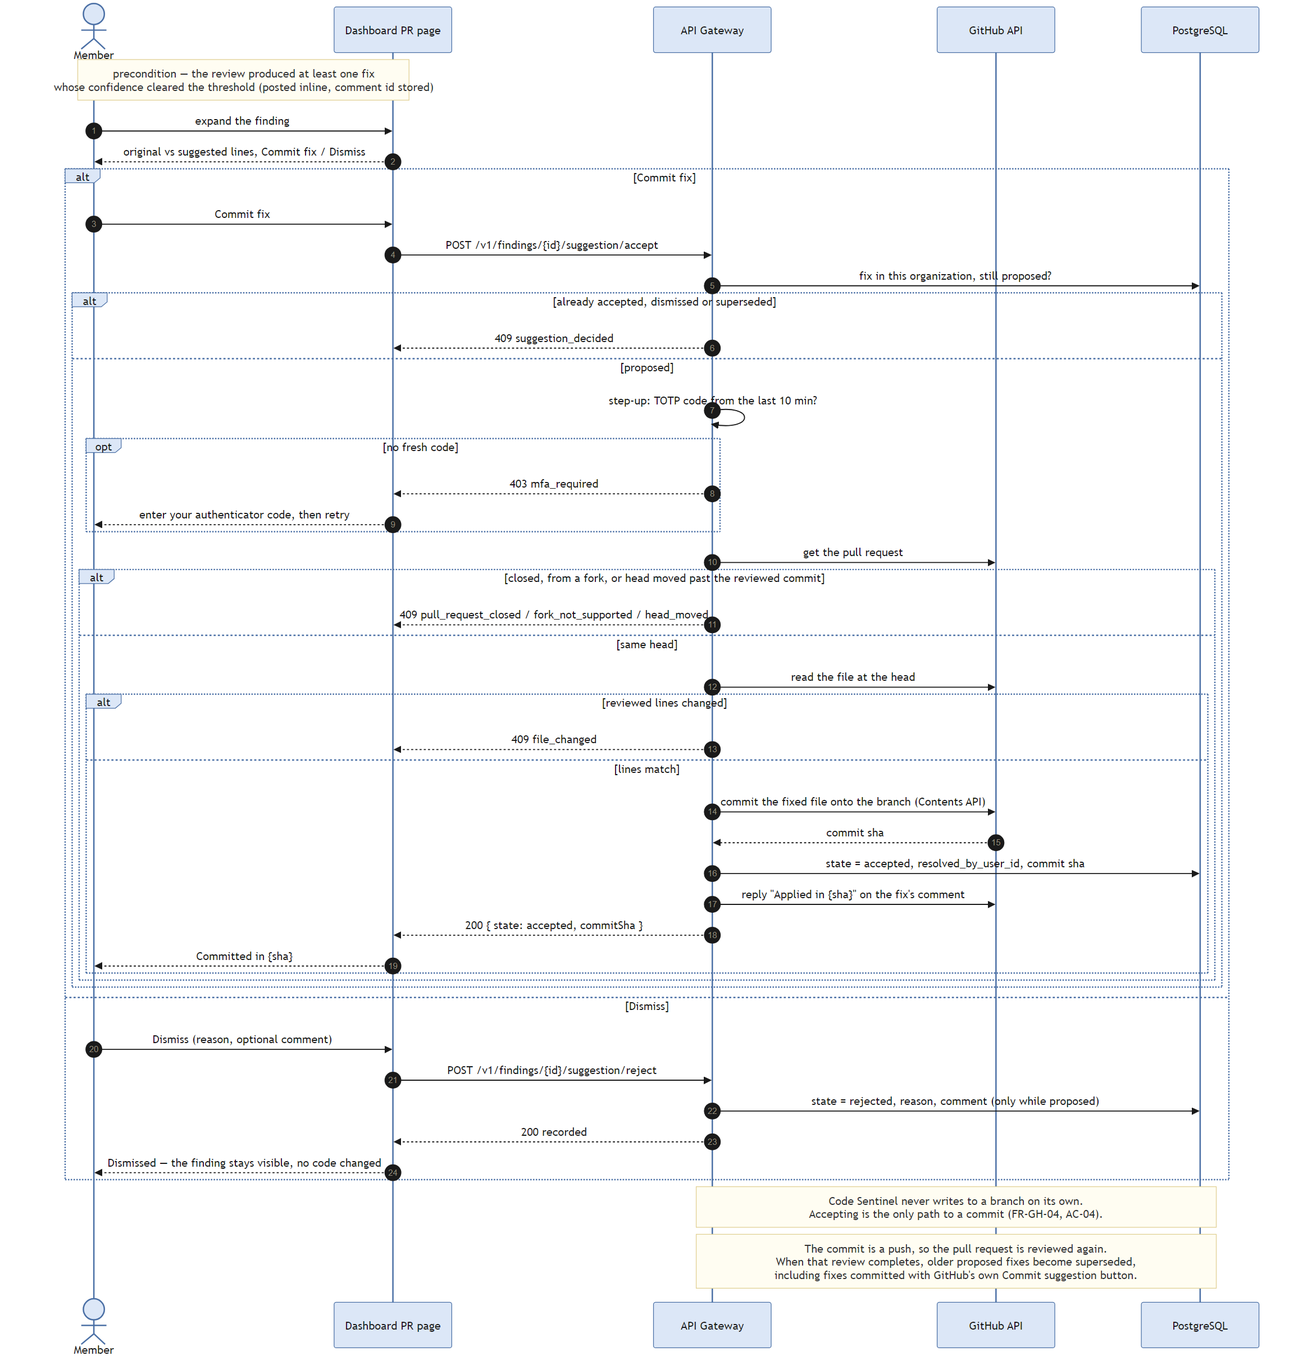
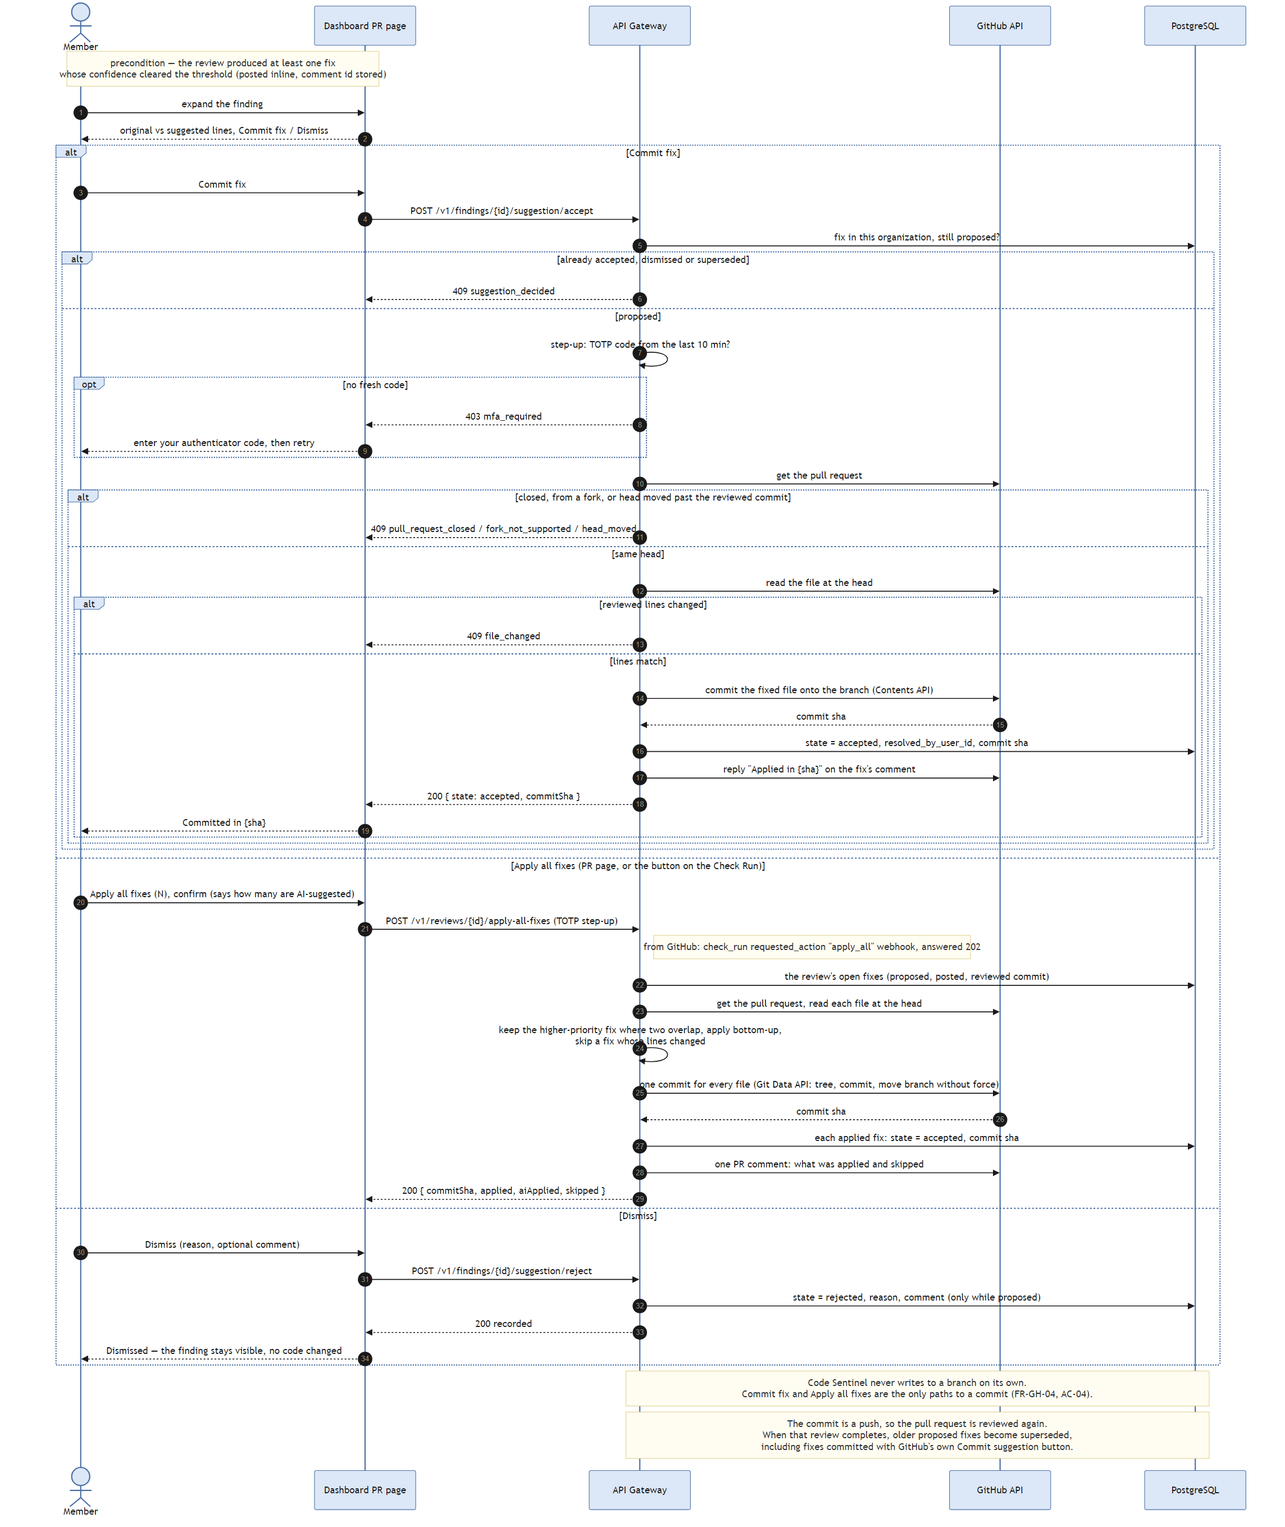
Apply all fixes from dashboard

diff --git a/services/gateway/src/routes/findings.ts b/services/gateway/src/routes/findings.ts
@@ -1,29 +1,32 @@
-import { RejectSuggestionRequestSchema, type SuggestionDecision } from "@code-sentinel/contracts";
+import { RejectSuggestionRequestSchema, type ApplyAllFixesResult, type SuggestionDecision } from "@code-sentinel/contracts";
 import { badGateway, badRequest, HttpError, notFound, type Logger } from "@code-sentinel/service-kit";
 import { Router, type Request } from "express";
 import { z } from "zod";
 
 import { assertStepUp, requireOrganization, type StepUpPolicy } from "../auth/guards.js";
 import type { GatewayResponse } from "../auth/principal.js";
+import { applyAllFixes } from "../github/apply-all-fixes.js";
 import { commitSuggestion } from "../github/apply-suggestion.js";
 import type { GitHubClient, PullRequestInfo } from "../github/github-client.js";
 import type { Stores, SuggestionRecord } from "../persistence/stores.js";
 
 export interface FindingsRouterDeps {
-  stores: Pick<Stores, "suggestions" | "repositories">;
-  github: Pick<GitHubClient, "getPullRequest" | "getFileContent" | "updateFile" | "replyToReviewComment">;
+  stores: Pick<Stores, "suggestions" | "repositories" | "reviews">;
+  github: Pick<GitHubClient, "getPullRequest" | "getFileContent" | "updateFile" | "replyToReviewComment" | "commitFiles" | "commentOnPullRequest">;
   logger: Logger;
   stepUp: StepUpPolicy;
 }
 
 const FindingIdSchema = z.string().uuid();
+const ReviewIdSchema = z.string().uuid();
 const conflict = (code: string, message: string) => new HttpError(409, code, message);
 const decided = () => conflict("suggestion_decided", "This fix was already accepted, dismissed, or replaced by a newer review");
 const githubUnavailable = () => badGateway("github_unavailable", "GitHub did not answer; try again in a moment");
 
 /**
- * UC-3: accept a suggested fix (commit it onto the pull request branch) or reject it. Any member of
- * the finding's organization may decide; accepting writes code, so it also needs a TOTP step-up.
+ * UC-3: accept a suggested fix (commit it onto the pull request branch), reject it, or apply every
+ * open fix of a review in one commit. Any member of the organization may decide; committing writes
+ * code, so it also needs a TOTP step-up.
  */
 export function createFindingsRouter({ stores, github, logger, stepUp }: FindingsRouterDeps): Router {
   const router = Router();
@@ -88,6 +91,37 @@ export function createFindingsRouter({ stores, github, logger, stepUp }: Finding
       res.json(body);
     },
   );
+
+  // Every open fix of a review in one commit, Style and AI alike; writes code, so it needs the step-up too.
+  router.post("/reviews/:reviewId/apply-all-fixes", requireOrganization, async (req: Request<{ reviewId: string }>, res: GatewayResponse) => {
+    const principal = res.locals.principal!;
+    const id = ReviewIdSchema.safeParse(req.params.reviewId);
+    const review = id.success ? await stores.reviews.get(principal.organizationId!, id.data) : undefined;
+    if (!review) throw notFound("review_not_found", "No such review in this organization");
+    assertStepUp(principal, stepUp);
+
+    const repository = await stores.repositories.findForOrganization(principal.organizationId!, review.repositoryId);
+    if (!repository) throw conflict("pull_request_closed", "This review's repository is no longer connected");
+    let outcome;
+    try {
+      outcome = await applyAllFixes(
+        { suggestions: stores.suggestions, github, now: () => new Date(stepUp.now()) },
+        { review, repository, userId: principal.userId, requestedBy: "a member on the Code Sentinel dashboard" },
+      );
+    } catch (error) {
+      logger.warn("applying all fixes failed", { requestId: res.locals.requestId, reviewId: review.reviewId, error });
+      throw githubUnavailable();
+    }
+    if (!outcome.ok) throw conflict(outcome.code, outcome.message);
+    const body: ApplyAllFixesResult = {
+      reviewId: review.reviewId,
+      commitSha: outcome.commitSha,
+      applied: outcome.applied,
+      aiApplied: outcome.aiApplied,
+      skipped: outcome.skipped,
+    };
+    res.json(body);
+  });
 
   router.post(
     "/findings/:findingId/suggestion/reject",

diff --git a/services/gateway/src/routes/findings.test.ts b/services/gateway/src/routes/findings.test.ts
@@ -1,6 +1,6 @@
 import { randomUUID } from "node:crypto";
 
-import { SuggestionDecisionSchema } from "@code-sentinel/contracts";
+import { ApplyAllFixesResultSchema, SuggestionDecisionSchema } from "@code-sentinel/contracts";
 import { EXAMPLE_ORGANIZATION_ID, EXAMPLE_REPOSITORY_ID } from "@code-sentinel/contracts/examples";
 import { withServer } from "@code-sentinel/service-kit/testing";
 import { describe, expect, it, vi } from "vitest";
@@ -63,6 +63,24 @@ async function setup({ edit, pulls = [pull()], stepUp = true }: { edit?: (seed: 
       status: "completed",
       confidenceThreshold: 0.8,
       createdAt: new Date(),
+      report: {
+        reviewId: REVIEW_ID,
+        status: "completed",
+        summary: { criticalCount: 1, warningCount: 0, infoCount: 0, autoFixedCount: 0, suggestedFixCount: 1 },
+        agentRuns: [],
+        findings: [
+          {
+            agent: "security",
+            ruleId: "security/sql-injection",
+            title: "SQL built from string formatting",
+            description: "Use parameters.",
+            location: { filePath: "app/payments.py", lineStart: 2, lineEnd: 3 },
+            severity: "critical",
+            confidence: 0.9,
+            suggestion: { kind: "ai_suggested", originalSnippet: "query = f\"SELECT {c}\"\ncur.execute(query)", suggestedSnippet: "cur.execute(\"SELECT ?\", (c,))" },
+          },
+        ],
+      },
     });
     seed.suggestions.push(suggestion());
     edit?.(seed);
@@ -91,6 +109,35 @@ async function setup({ edit, pulls = [pull()], stepUp = true }: { edit?: (seed: 
 
 const ACCEPT = `/v1/findings/${FINDING_ID}/suggestion/accept`;
 const REJECT = `/v1/findings/${FINDING_ID}/suggestion/reject`;
+
+describe("POST /v1/reviews/{id}/apply-all-fixes", () => {
+  const APPLY_ALL = `/v1/reviews/${REVIEW_ID}/apply-all-fixes`;
+
+  it("commits every open fix in one commit, records who asked, and then has nothing left to apply", async () => {
+    const { call, github, stores } = await setup();
+
+    const { status, body } = await call(APPLY_ALL);
+
+    expect(status).toBe(200);
+    expect(ApplyAllFixesResultSchema.parse(body)).toEqual({ reviewId: REVIEW_ID, commitSha: github.multiCommits[0]!.commitSha, applied: 1, aiApplied: 1, skipped: 0 });
+    expect(github.multiCommits[0]).toMatchObject({ branch: "fix/retry", parentSha: HEAD, message: "Apply 1 Code Sentinel fix" });
+    expect(github.pullRequestComments[0]!.body).toContain("as a member on the Code Sentinel dashboard asked");
+    await expect(stores.suggestions.findByFinding(EXAMPLE_ORGANIZATION_ID, FINDING_ID)).resolves.toMatchObject({ state: "accepted", resolutionCommitSha: github.multiCommits[0]!.commitSha });
+
+    const again = await call(APPLY_ALL);
+    expect([again.status, again.body.code]).toEqual([409, "nothing_to_apply"]);
+  });
+
+  it("asks for an authenticator code first, and answers 404 for another organization's review", async () => {
+    const noCode = await setup({ stepUp: false });
+    expect((await noCode.call(APPLY_ALL)).body.code).toBe("mfa_required");
+    expect(noCode.github.multiCommits).toEqual([]);
+
+    const other = await setup({ edit: (seed) => (seed.reviews[0]!.organizationId = randomUUID()) });
+    expect((await other.call(APPLY_ALL)).body.code).toBe("review_not_found");
+    expect((await other.call("/v1/reviews/not-a-uuid/apply-all-fixes")).status).toBe(404);
+  });
+});
 
 describe("POST /v1/findings/{id}/suggestion/accept", () => {
   it("commits the fix onto the pull request branch, replies on its comment and records the decision", async () => {

diff --git a/apps/dashboard/components/reviews/apply-all-fixes.tsx b/apps/dashboard/components/reviews/apply-all-fixes.tsx
@@ -1,0 +1,70 @@
+"use client";
+
+import { useState, useTransition } from "react";
+import { useRouter } from "next/navigation";
+import { GitCommitHorizontal } from "lucide-react";
+import { toast } from "sonner";
+import { applyAllFixes } from "@/app/(app)/pull-requests/actions";
+import { useStepUp } from "@/components/auth/step-up";
+import { Button } from "@/components/ui/button";
+import { Dialog, DialogContent, DialogDescription, DialogTitle } from "@/components/ui/dialog";
+import { Loader } from "@/components/ui/loader";
+
+/**
+ * "Apply all fixes (N)": every open fix of the review, Style's exact ones and the AI ones, in one
+ * commit. A dialog says how many are AI-suggested first; the gateway then asks for an authenticator code.
+ */
+export function ApplyAllFixes({ reviewId, total, ai }: { reviewId: string; total: number; ai: number }) {
+  const router = useRouter();
+  const withStepUp = useStepUp();
+  const [open, setOpen] = useState(false);
+  const [pending, startTransition] = useTransition();
+  if (total === 0) return null;
+
+  const apply = () =>
+    startTransition(async () => {
+      setOpen(false);
+      const result = await withStepUp(() => applyAllFixes(reviewId));
+      if (!result) return;
+      if (!result.ok) return void toast.error(result.message);
+      const skipped = result.skipped ? ` ${result.skipped} couldn't be applied; see the comment on GitHub.` : "";
+      toast.success(`${result.applied} fix${result.applied === 1 ? "" : "es"} committed in ${result.commitSha.slice(0, 7)}.${skipped} The pull request is reviewed again.`);
+      router.refresh();
+    });
+
+  return (
+    <>
+      <Button size="sm" onClick={() => setOpen(true)} disabled={pending}>
+        {pending ? (
+          <Loader label="Committing the fixes" />
+        ) : (
+          <>
+            <GitCommitHorizontal className="size-[15px]" aria-hidden="true" />
+            Apply all fixes ({total})
+          </>
+        )}
+      </Button>
+      <Dialog open={open} onOpenChange={setOpen}>
+        <DialogContent className="max-w-[calc(100%-2rem)] gap-5 rounded-2xl border border-line-2 bg-panel p-6 sm:max-w-[440px]">
+          <div className="grid gap-1.5">
+            <DialogTitle className="font-display text-lg leading-tight font-semibold">
+              Commit {total} fix{total === 1 ? "" : "es"} in one commit?
+            </DialogTitle>
+            <DialogDescription className="text-sm text-ink-2">
+              {ai > 0
+                ? `${ai} of them ${ai === 1 ? "is" : "are"} AI-suggested: read ${ai === 1 ? "it" : "them"} in the findings below before committing. `
+                : "All of them are exact formatter fixes. "}
+              The commit goes onto the pull request branch, and the pull request is reviewed again.
+            </DialogDescription>
+          </div>
+          <div className="flex flex-wrap gap-2.5">
+            <Button onClick={apply}>Commit {total} fix{total === 1 ? "" : "es"}</Button>
+            <Button variant="ghost" onClick={() => setOpen(false)}>
+              Not now
+            </Button>
+          </div>
+        </DialogContent>
+      </Dialog>
+    </>
+  );
+}

diff --git a/apps/dashboard/app/(app)/pull-requests/actions.ts b/apps/dashboard/app/(app)/pull-requests/actions.ts
@@ -3,6 +3,7 @@
 import { revalidatePath } from "next/cache";
 import { z } from "zod";
 import {
+  ApplyAllFixesResultSchema,
   PullRequestReviewRequestSchema,
   RejectSuggestionRequestSchema,
   ReviewAcceptedSchema,
@@ -58,6 +59,26 @@ async function decide(findingId: string, action: "accept" | "reject", body: unkn
 /** Commits a suggested fix onto the pull request branch (UC-3); the gateway asks for an authenticator code. */
 export async function commitFix(findingId: string): Promise<FixDecisionResult> {
   return decide(findingId, "accept", {});
+}
+
+export type ApplyAllResult = { ok: true; commitSha: string; applied: number; aiApplied: number; skipped: number } | { ok: false; message: string; code?: string };
+
+/** Commits every open fix of the review, Style and AI alike, in one commit; the gateway asks for an authenticator code. */
+export async function applyAllFixes(reviewId: string): Promise<ApplyAllResult> {
+  if (!z.string().uuid().safeParse(reviewId).success) return { ok: false, message: "That review isn't valid." };
+  const account = await getAccount();
+  if (!account.ok || !account.current) return { ok: false, message: "Choose an organization first." };
+
+  const result = await gatewayFetch(`/v1/reviews/${reviewId}/apply-all-fixes`, ApplyAllFixesResultSchema, {
+    method: "POST",
+    body: "{}",
+    headers: { "Content-Type": "application/json" },
+    organizationId: account.current.organizationId,
+  });
+  if (!result.ok) return { ok: false, message: fixFailureMessage(result), ...(result.code ? { code: result.code } : {}) };
+  revalidatePath("/pull-requests", "layout");
+  const { commitSha, applied, aiApplied, skipped } = result.data;
+  return { ok: true, commitSha, applied, aiApplied, skipped };
 }
 
 /** Dismisses a suggested fix with an optional reason; no code is written. */

diff --git a/apps/dashboard/app/(app)/pull-requests/[reviewId]/page.tsx b/apps/dashboard/app/(app)/pull-requests/[reviewId]/page.tsx
@@ -6,10 +6,11 @@ import { ExternalLink } from "lucide-react";
 import { EmptyState, PageSkeleton } from "@/components/app/page-parts";
 import { Gauge } from "@/components/brand/verdict";
 import { VerdictPill } from "@/components/brand/verdict-pill";
+import { ApplyAllFixes } from "@/components/reviews/apply-all-fixes";
 import { RefreshWhileRunning } from "@/components/reviews/refresh-while-running";
 import { RerunButton } from "@/components/reviews/rerun-button";
 import { ReviewReport } from "@/components/reviews/review-report";
-import { lanesOf, timeAgo, verdictOf, verdictSentence } from "@/lib/review-view";
+import { lanesOf, openFixes, timeAgo, verdictOf, verdictSentence } from "@/lib/review-view";
 import { getReview } from "@/lib/reviews";
 
 export const metadata: Metadata = { title: "Pull request" };
@@ -82,7 +83,10 @@ async function ReviewContent({ params }: PageProps<"/pull-requests/[reviewId]">)
           </div>
           <div className="grid justify-items-start gap-4 md:justify-items-end">
             <Gauge lanes={lanesOf(review.agentResults)} size="sm" />
-            {number !== undefined ? <RerunButton repositoryId={review.repositoryId} pullRequestNumber={number} size="sm" /> : null}
+            <div className="flex flex-wrap gap-2.5 md:justify-end">
+              {number !== undefined ? <ApplyAllFixes reviewId={review.reviewId} {...openFixes(review.findings, threshold)} /> : null}
+              {number !== undefined ? <RerunButton repositoryId={review.repositoryId} pullRequestNumber={number} size="sm" /> : null}
+            </div>
           </div>
         </div>
       </div>

diff --git a/apps/dashboard/lib/review-view.test.ts b/apps/dashboard/lib/review-view.test.ts
@@ -1,6 +1,6 @@
 import { describe, expect, it } from "vitest";
 import type { Finding, ReviewListItem } from "@code-sentinel/contracts";
-import { exactTime, groupByFile, lanesOf, overviewOf, postedCount, timeAgo, verdictOf, verdictSentence } from "./review-view";
+import { exactTime, groupByFile, lanesOf, openFixes, overviewOf, postedCount, timeAgo, verdictOf, verdictSentence } from "./review-view";
 
 const summary = (criticalCount: number) => ({ criticalCount, warningCount: 0, infoCount: 0, autoFixedCount: 0, suggestedFixCount: 0 });
 
@@ -69,6 +69,16 @@ describe("groupByFile / postedCount / timeAgo", () => {
       ["a.py", ["1", "3"]],
       ["b.py", ["2"]],
     ]);
+  });
+
+  it("counts the open fixes Apply all fixes would commit", () => {
+    const fixed = (state: "proposed" | "accepted", kind: "deterministic" | "ai_suggested", confidence = 0.9, id: string | undefined = "f") =>
+      ({ ...finding("a.py", "x"), ...(id ? { id } : {}), confidence, suggestion: { kind, state, originalSnippet: "a", suggestedSnippet: "b" } }) as Finding;
+
+    expect(openFixes([fixed("proposed", "ai_suggested"), fixed("proposed", "deterministic"), fixed("accepted", "deterministic"), fixed("proposed", "deterministic", 0.5), fixed("proposed", "deterministic", 0.9, "")], 0.8)).toEqual({
+      total: 2,
+      ai: 1,
+    });
   });
 
   it("counts findings at or above the threshold", () => {

diff --git a/apps/dashboard/lib/review-view.ts b/apps/dashboard/lib/review-view.ts
@@ -67,7 +67,13 @@ export function groupByFile(findings: Finding[]): { path: string; findings: Find
   return [...groups].map(([path, items]) => ({ path, findings: items }));
 }
 
-export const postedCount = (confidences: number[], threshold: number) => confidences.filter((c) => c >= threshold - 1e-9).length;
+/** Fixes "Apply all fixes" would commit: undecided, recorded, and posted (at or above the threshold). */
+export function openFixes(findings: Finding[], threshold: number): { total: number; ai: number } {
+  const open = findings.filter((f) => f.id && f.suggestion?.state === "proposed" && f.confidence >= threshold - 1e-9);
+  return { total: open.length, ai: open.filter((f) => f.suggestion?.kind === "ai_suggested").length };
+}
+
+export const postedCount =(confidences: number[], threshold: number) => confidences.filter((c) => c >= threshold - 1e-9).length;
 
 /** "just now", "4 min ago", "3 h ago", "2 days ago". */
 export function timeAgo(iso: string, now: Date = new Date()): string {

diff --git a/packages/contracts/src/gateway.ts b/packages/contracts/src/gateway.ts
@@ -129,6 +129,18 @@ export const SuggestionDecisionSchema = z.object({
 });
 export type SuggestionDecision = z.infer<typeof SuggestionDecisionSchema>;
 
+/** 200 body of POST /v1/reviews/{reviewId}/apply-all-fixes: every open fix committed in one commit. */
+export const ApplyAllFixesResultSchema = z.object({
+  reviewId: z.string().uuid(),
+  commitSha: z.string(),
+  applied: z.number().int().min(1),
+  /** How many of the applied fixes were AI-suggested rather than exact. */
+  aiApplied: z.number().int().min(0),
+  /** Fixes left out: they overlapped a fix that was applied, or their lines changed. */
+  skipped: z.number().int().min(0),
+});
+export type ApplyAllFixesResult = z.infer<typeof ApplyAllFixesResultSchema>;
+
 export const RepositorySchema = z.object({
   repositoryId: z.string().uuid(),
   fullName: z.string(),

diff --git a/apps/dashboard/lib/fix-messages.ts b/apps/dashboard/lib/fix-messages.ts
@@ -9,6 +9,8 @@ const MESSAGES: Record<string, string> = {
   github_permission_missing: "The GitHub App can't write to this repository yet. An admin needs to grant Contents: Read and write on GitHub.",
   github_unavailable: "GitHub didn't answer. Try again in a moment.",
   finding_not_found: "This finding isn't in your organization any more.",
+  review_not_found: "This review isn't in your organization any more.",
+  nothing_to_apply: "There are no open fixes left to apply, or none still matches the code. Re-run the review.",
   mfa_required: "Enter a code from your authenticator app to commit this fix.",
 };
 

diff --git a/apps/dashboard/README.md b/apps/dashboard/README.md
@@ -48,7 +48,7 @@ Env is validated with zod the first time it's read (`lib/env.ts`), so `next buil
 | `/onboarding/github/connect` | Same, through GitHub's authorize page: links GitHub and joins organizations the App is already on |
 | `/onboarding/github/callback` | GitHub's Callback and Setup URL. A `code` with a matching `state` is sent to `POST /v1/github/link`; without our `state` the code is never used and you confirm instead; an installation updated on GitHub (no code) triggers a sync |
 | `/pull-requests` | Each pull request's newest review (`GET /v1/reviews?latest=true`): verdict lanes, verdict, severity counts, filters by verdict. Empty state until reviews exist |
-| `/pull-requests/[reviewId]` | One review: verdict and why, commit, threshold, View on GitHub, the gauge, and **Re-run review**; findings by file with severity filters, each with "Also flagged by" chips when other agents reported the same issue, expanding to its description, the other agents' notes and the fix (before/after) with **Commit fix** / **Dismiss**, or what was decided; findings below the threshold dimmed as not posted; agent runs. While the review runs, the page refreshes every 3 s |
+| `/pull-requests/[reviewId]` | One review: verdict and why, commit, threshold, View on GitHub, the gauge, **Apply all fixes (N)** when the review has open fixes (one commit for Style and AI fixes, after a dialog that says how many are AI-suggested, then the TOTP step-up), and **Re-run review**; findings by file with severity filters, each with "Also flagged by" chips when other agents reported the same issue, expanding to its description, the other agents' notes and the fix (before/after) with **Commit fix** / **Dismiss**, or what was decided; findings below the threshold dimmed as not posted; agent runs. While the review runs, the page refreshes every 3 s |
 | `/settings` | Profile, sign-in methods (link / unlink GitHub and Google), sign out here or everywhere |
 | `/settings?section=defaults` | **Review defaults**: the organization's agent modes, used by repositories that follow them, and its confidence threshold. Branches are set per repository |
 | `/settings?section=security` | **Security**: add authenticator apps (QR code or key, then a code to confirm), a second one as the backup, and remove them after a code |

diff --git a/services/gateway/README.md b/services/gateway/README.md
@@ -288,7 +288,9 @@ Each decision is written only while the fix is `proposed`, so two people decidin
 - **Where:** an **Apply all fixes** button on the Code-Sentinel Check Run, shown only while the review has open fixes
   ("N fixes (M AI) in one commit"). Clicking it sends a `check_run` `requested_action` webhook (`apply_all`); the
   gateway finds the review by its Check Run id, answers 202 `fixes_applying` and commits in the background. GitHub
-  only offers the button to people with write access. The dashboard has the same action (below).
+  only offers the button to people with write access. The dashboard's **Apply all fixes** on the PR page calls
+  **`POST /v1/reviews/{id}/apply-all-fixes`** (any member, with the TOTP step-up; 404 `review_not_found`, 409 with the
+  codes above or `nothing_to_apply`), which answers `{ reviewId, commitSha, applied, aiApplied, skipped }`.
 - **What it includes:** Style's exact fixes **and** the AI-suggested fixes of Security, Logic, Performance and
   Documentation. This was a deliberate change on 16 Oct: AI fixes used to be one click each (FR-GH-04, NFR-07). The
   button is still a person's action and says how many AI fixes it carries; single-fix commit and dismiss are unchanged.
